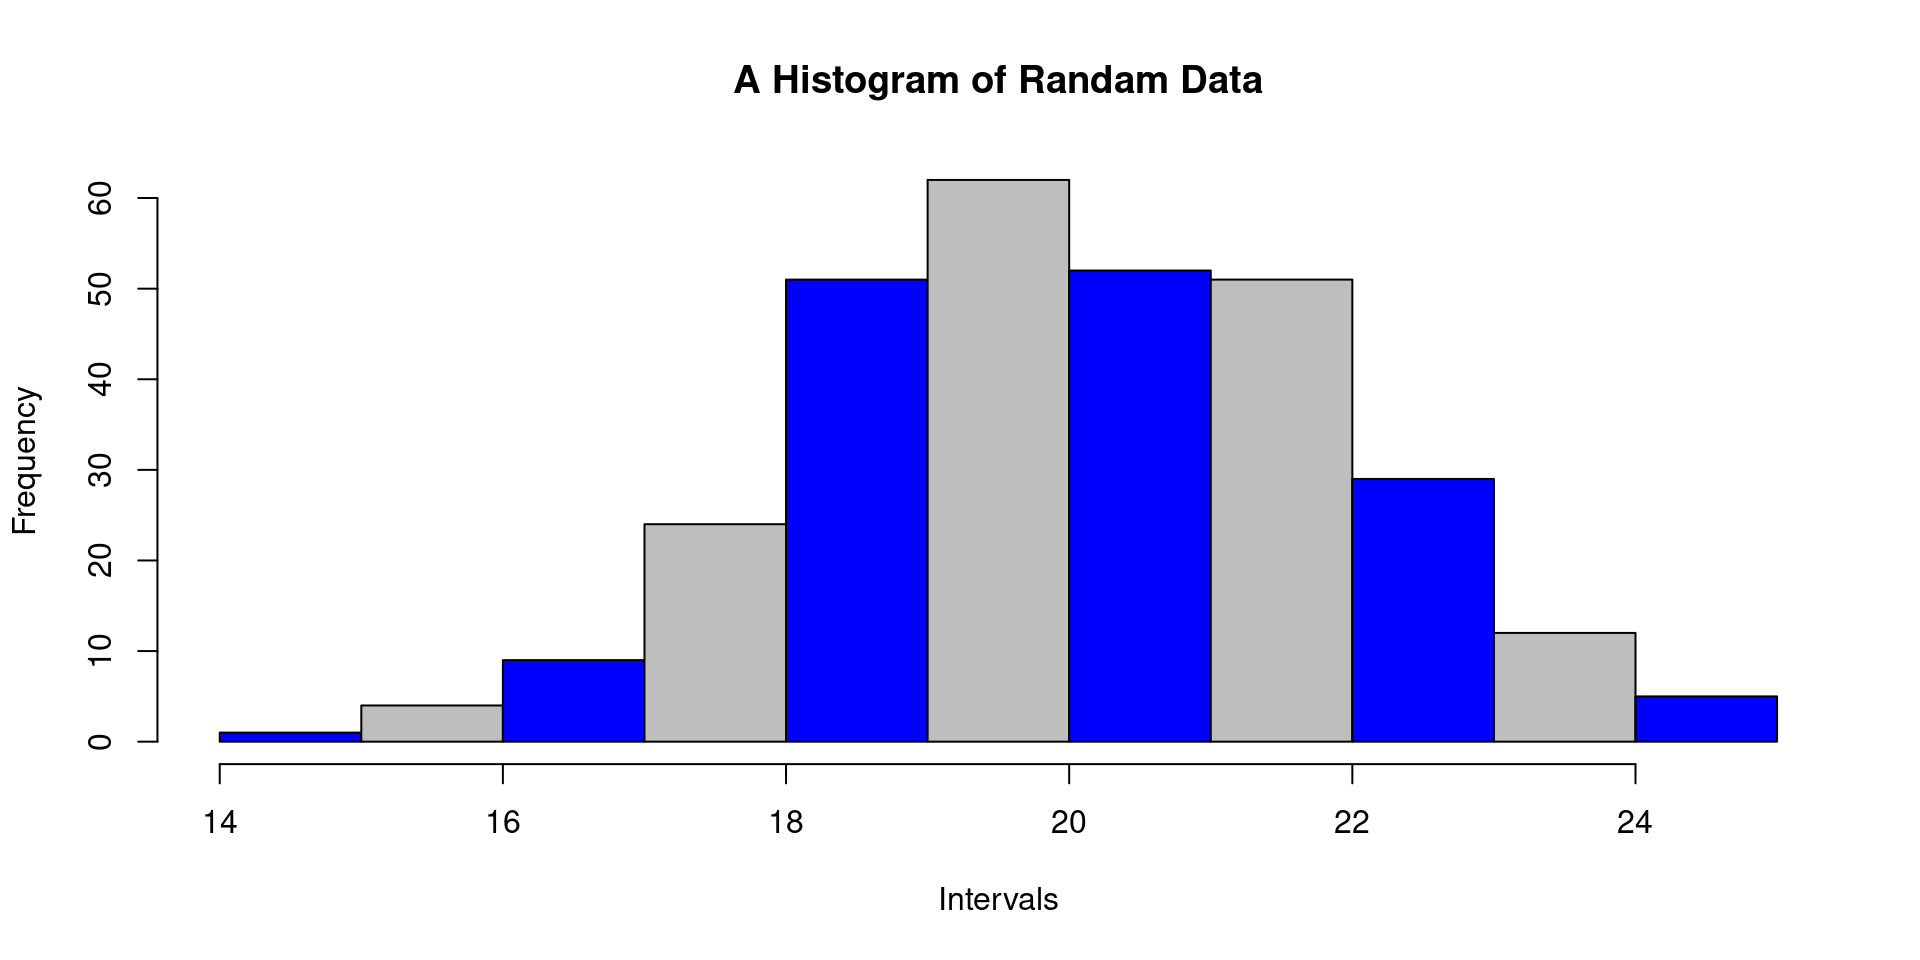
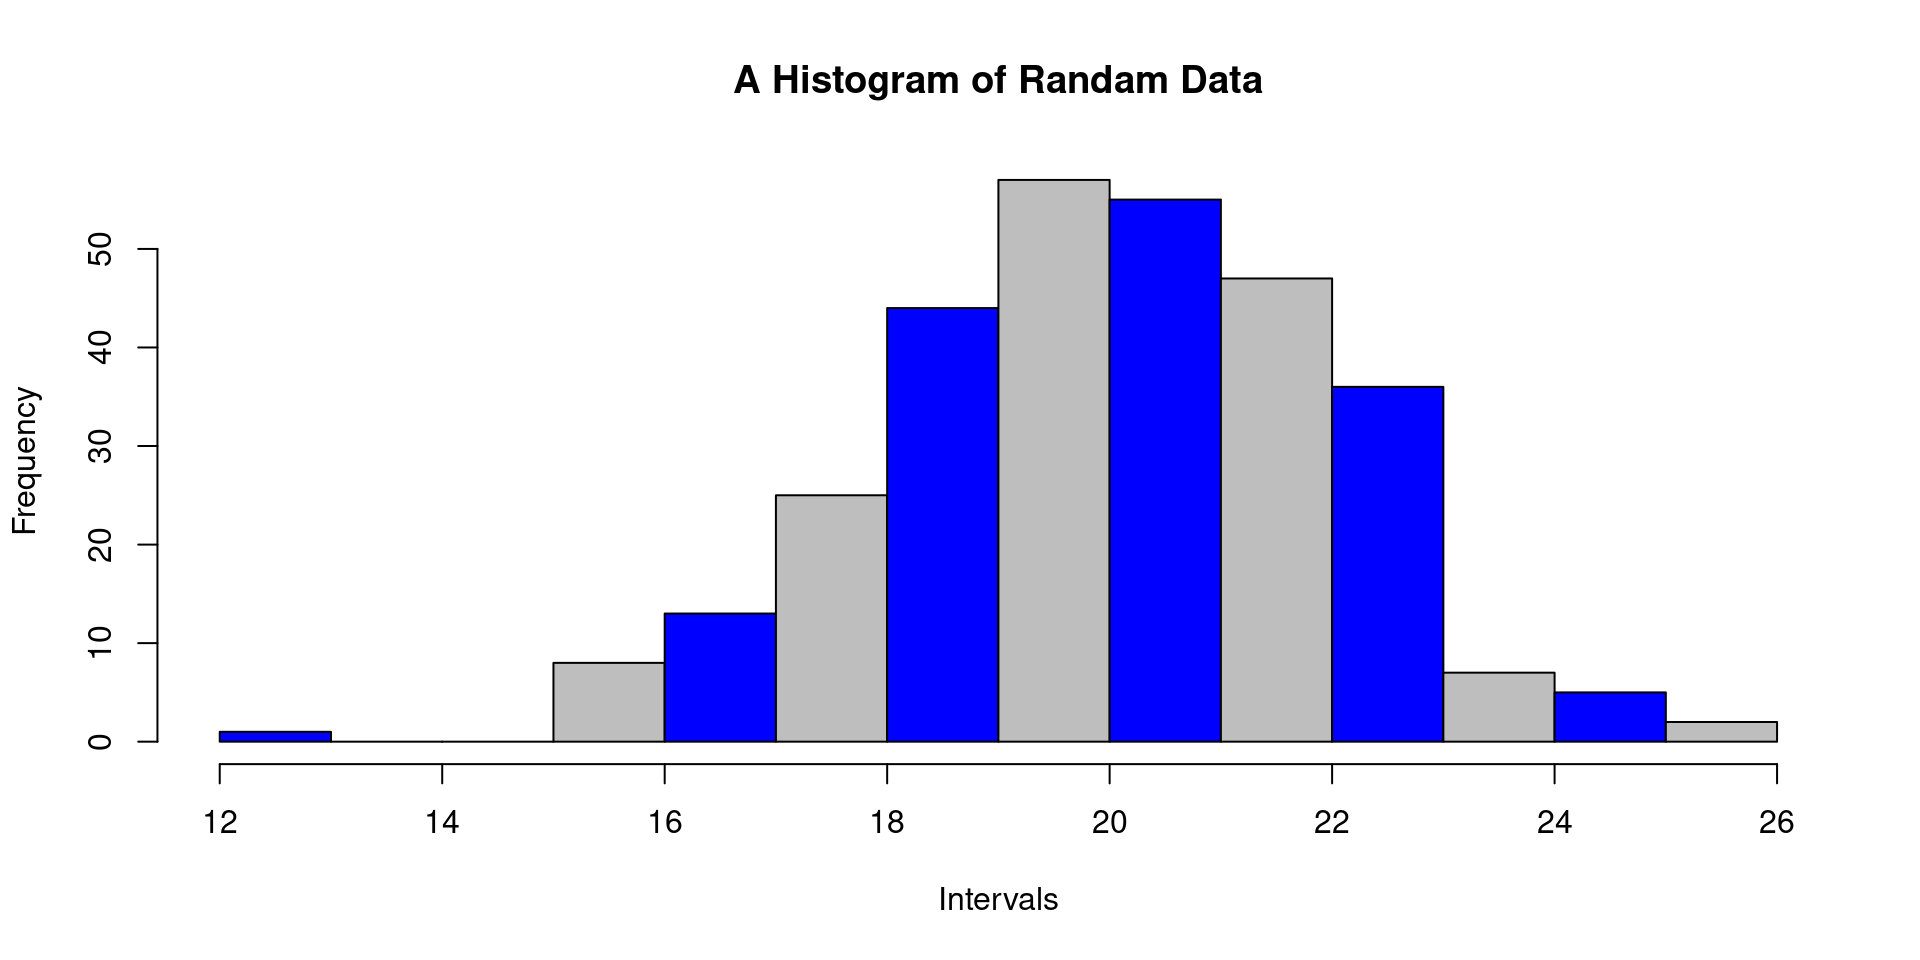
Fix errors in 01-stat-intro and 02-data-collection slides
01-stat-intro.qmd: the qualitative/quantitative mapping under Types
of Variable was reversed (qualitative labeled numeric, quantitative
non-numeric) — swapped to the correct definitions.

02-data-collection-organization-presentation.qmd: two rendering bugs,
no content changes. The "Primary" data-source bullet was missing its
fragment marker, so it rendered as a plain paragraph instead of
matching "Secondary" as an incremental list item. <dev>...</dev> was
an invalid HTML tag (typo for <div>) wrapping the "Example" bullet,
left unclosed in the rendered output — fixed to <div>...</div>.

Claude-Session: https://claude.ai/code/session_013FdAgwf5FK4jidRqbHyWgN

diff --git a/slide/02-data-collection-organization-presentation.html b/slide/02-data-collection-organization-presentation.html
@@ -164,7 +164,13 @@ Abdullah Al Mahmud
 </section>
 <section id="sources-of-data" class="slide level2">
 <h2>Sources of Data</h2>
-<p>Primary: Obtained directly (not collected from someone else)</p>
+<blockquote>
+
+<ul>
+<li class="fragment">Primary: Obtained directly (not collected from someone else)</li>
+</ul>
+
+</blockquote>
 <blockquote>
 
 <ul>
@@ -175,7 +181,9 @@ Abdullah Al Mahmud
 <blockquote>
 
 <ul>
-<li class="fragment"><dev><strong>Example</strong></dev></li>
+<li class="fragment"><div>
+<p><strong>Example</strong></p>
+</div></li>
 </ul>
 
 </blockquote>
@@ -184,11 +192,12 @@ Abdullah Al Mahmud
 <ul>
 <li class="fragment">A researcher buys data from BMD to build a model of rainfall behavior</li>
 <li class="fragment">A researcher runs an experiment to measure speed of light using a novel technique.</li>
-<li class="fragment">A researcher makes use of the data generated by the one in example 2 </li>
-</ul>
+<li class="fragment">A researcher makes use of the data generated by the one in example 2
+</li></ul>
 
-</blockquote>
-</section>
+</blockquote></section></section></div>
+
+
 <section id="method-of-data-collection" class="slide level2">
 <h2>Method of Data Collection</h2>
 <blockquote>
@@ -234,7 +243,7 @@ Each method has its own advantages and disadvantages;
 </ul>
 
 </blockquote>
-</section></section>
+</section>
 <section>
 <section id="organizing-data" class="title-slide slide level1 center">
 <h1>Organizing Data</h1>
@@ -757,13 +766,13 @@ White Brown Pink  Red   White Brown Green Red   Pink  Red  </code></pre>
 
 
 <img class="plain r-stretch" src="img/rose.png" width="580"></section></section>
-    </div>
-  <div class="quarto-auto-generated-content" style="display: none;">
+    <div class="quarto-auto-generated-content" style="display: none;">
 <p><img src="css/logo.png" class="slide-logo"></p>
 <div class="footer footer-default">
 <p><a href="https://www.statmania.info" target="_blank">www.statmania.info</a> | <a href="https://www.thinkermahmud.com">Abdullah Al Mahmud</a> | Press space or arrow to change slides</p>
 </div>
 </div></div>
+  
 
   <script>window.backupDefine = window.define; window.define = undefined;</script>
   <script src="site_libs/revealjs/dist/reveal.js"></script>

diff --git a/slide/01-stat-intro.html b/slide/01-stat-intro.html
@@ -307,8 +307,8 @@ Abdullah Al Mahmud
 <blockquote>
 
 <ul>
-<li class="fragment">Qualitative <span class="math inline">\(\rightarrow\)</span> numeric</li>
-<li class="fragment">Quantitative <span class="math inline">\(\rightarrow\)</span> non-numeric</li>
+<li class="fragment">Qualitative <span class="math inline">\(\rightarrow\)</span> non-numeric</li>
+<li class="fragment">Quantitative <span class="math inline">\(\rightarrow\)</span> numeric</li>
 <li class="fragment">Discrete: Limited and pre-specified</li>
 <li class="fragment">Continuous: Can take on any values between any two given number</li>
 </ul>
